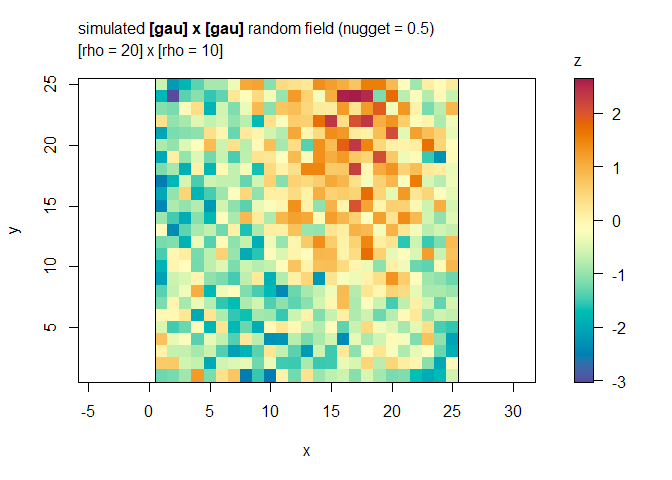
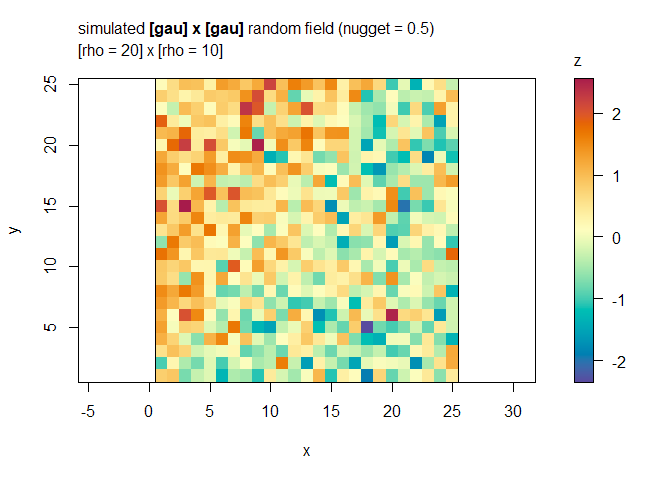
swapped in github URLs to get images to display

diff --git a/vignettes/pkern_vignette.md b/vignettes/pkern_vignette.md
@@ -130,7 +130,7 @@ recenter the data to get something closer to a Gaussian random variable.
 hist(meuse$zinc, main='histogram of [zinc] in the meuse dataset')
 ```
 
-![](D:/pkern/vignettes/pkern_vignette_files/figure-gfm/unnamed-chunk-7-1.png)<!-- -->
+![](https://github.com/deankoch/pkern/blob/main/vignettes/pkern_vignette_files/figure-gfm/unnamed-chunk-7-1.png)<!-- -->
 
 This chunk does the transformation and appends it to `meuse` in the new
 column “logzinc”. We save the centering constant in variable
@@ -146,7 +146,7 @@ meuse$logzinc = as.numeric(logzinc)
 hist(meuse$logzinc, main='histogram of zero-centred log[zinc] in the meuse dataset')
 ```
 
-![](D:/pkern/vignettes/pkern_vignette_files/figure-gfm/unnamed-chunk-8-1.png)<!-- -->
+![](https://github.com/deankoch/pkern/blob/main/vignettes/pkern_vignette_files/figure-gfm/unnamed-chunk-8-1.png)<!-- -->
 
 The `meuse` dataframe has columns “x” and “y” for the projected Easting
 and Northing coordinates, so it can be converted to a spatial points
@@ -161,7 +161,7 @@ meuse.sf = st_as_sf(meuse, coords=c('x', 'y'), crs=meuse.epsg)
 plot(meuse.sf['logzinc'], pch=16, main='zero-centred log[zinc]')
 ```
 
-![](D:/pkern/vignettes/pkern_vignette_files/figure-gfm/unnamed-chunk-9-1.png)<!-- -->
+![](https://github.com/deankoch/pkern/blob/main/vignettes/pkern_vignette_files/figure-gfm/unnamed-chunk-9-1.png)<!-- -->
 
 The river Meuse runs diagonally across this map (from bottom-left to
 top-right), and points are sampled along its east bank. This vignette
@@ -323,7 +323,7 @@ gsnap.nearest$sg$pdist |> range()
 pkern_snap_plot(gsnap.nearest, meuse.sf)
 ```
 
-![](D:/pkern/vignettes/pkern_vignette_files/figure-gfm/unnamed-chunk-13-1.png)<!-- -->
+![](https://github.com/deankoch/pkern/blob/main/vignettes/pkern_vignette_files/figure-gfm/unnamed-chunk-13-1.png)<!-- -->
 
 This minimizes total positional error (the largest snapping distance is
 about 2m) but results in the most complicated subgrid possible (the full
@@ -359,7 +359,7 @@ gsnap.nearest.10$sg$pdist |> range()
 pkern_snap_plot(gsnap.nearest.10, meuse.sf)
 ```
 
-![](D:/pkern/vignettes/pkern_vignette_files/figure-gfm/unnamed-chunk-14-1.png)<!-- -->
+![](https://github.com/deankoch/pkern/blob/main/vignettes/pkern_vignette_files/figure-gfm/unnamed-chunk-14-1.png)<!-- -->
 
 With wider spacing the positional error has increased - the largest
 snapping distance is now around 30m - but the subgrid is now
@@ -373,7 +373,7 @@ gsnap.nearest.auto = pkern_snap(gfull, pts=meuse.sf, distinct=FALSE)
 pkern_snap_plot(gsnap.nearest.auto, meuse.sf)
 ```
 
-![](D:/pkern/vignettes/pkern_vignette_files/figure-gfm/unnamed-chunk-15-1.png)<!-- -->
+![](https://github.com/deankoch/pkern/blob/main/vignettes/pkern_vignette_files/figure-gfm/unnamed-chunk-15-1.png)<!-- -->
 
 ``` r
 gsnap.nearest.auto$sg$pdist |> range()
@@ -410,7 +410,7 @@ gsnap = pkern_snap(gfull, pts=meuse.sf)
 pkern_snap_plot(gsnap, meuse.sf)
 ```
 
-![](D:/pkern/vignettes/pkern_vignette_files/figure-gfm/unnamed-chunk-16-1.png)<!-- -->
+![](https://github.com/deankoch/pkern/blob/main/vignettes/pkern_vignette_files/figure-gfm/unnamed-chunk-16-1.png)<!-- -->
 
 ``` r
 gsnap$sg$pdist |> range()
@@ -452,7 +452,7 @@ zinc.sg[idx.to] = meuse$logzinc
 pkern_plot(zinc.sg, gdim=gsnap[['sg']][['gdim']], ppars=list(leg='log[zinc]'))
 ```
 
-![](D:/pkern/vignettes/pkern_vignette_files/figure-gfm/unnamed-chunk-18-1.png)<!-- -->
+![](https://github.com/deankoch/pkern/blob/main/vignettes/pkern_vignette_files/figure-gfm/unnamed-chunk-18-1.png)<!-- -->
 
 ``` r
 # you can also create the data vector in one line using inverse mapping
@@ -474,7 +474,7 @@ correct coordinates and aspect ratio
 modifyList(gsnap[['sg']], list(gval=zinc.sg)) |> pkern_plot(gtest, ppars=list(leg='log[zinc]'))
 ```
 
-![](D:/pkern/vignettes/pkern_vignette_files/figure-gfm/unnamed-chunk-19-1.png)<!-- -->
+![](https://github.com/deankoch/pkern/blob/main/vignettes/pkern_vignette_files/figure-gfm/unnamed-chunk-19-1.png)<!-- -->
 
 ## Covariance model
 
@@ -503,7 +503,7 @@ plot(d, corr, pch=NA, main='1d Gaussian correlation function')
 lines(d, corr)
 ```
 
-![](D:/pkern/vignettes/pkern_vignette_files/figure-gfm/unnamed-chunk-20-1.png)<!-- -->
+![](https://github.com/deankoch/pkern/blob/main/vignettes/pkern_vignette_files/figure-gfm/unnamed-chunk-20-1.png)<!-- -->
 
 ``` r
 # correlation matrix for the lag sequence above
@@ -539,7 +539,7 @@ pars.2d = list(y=pars.1d.y, x=pars.1d.x)
 pkern_plot(pars.2d)
 ```
 
-![](D:/pkern/vignettes/pkern_vignette_files/figure-gfm/unnamed-chunk-21-1.png)<!-- -->
+![](https://github.com/deankoch/pkern/blob/main/vignettes/pkern_vignette_files/figure-gfm/unnamed-chunk-21-1.png)<!-- -->
 
 This plot shows the correlation between a central point and all of the
 grid points surrounding it, illustrating the spatial pattern of
@@ -564,7 +564,7 @@ pars.2d = modifyList(pars.2d, list(psill=2, nug=0.5))
 pkern_plot(pars.2d)
 ```
 
-![](D:/pkern/vignettes/pkern_vignette_files/figure-gfm/unnamed-chunk-22-1.png)<!-- -->
+![](https://github.com/deankoch/pkern/blob/main/vignettes/pkern_vignette_files/figure-gfm/unnamed-chunk-22-1.png)<!-- -->
 
 The plot looks identical except that the color legend has a new range.
 The spatial pattern of the covariance function is determined by the
@@ -577,23 +577,26 @@ which can be passed to the plotter to get a sense of what type of
 spatial patterns are expected under the model:
 
 ``` r
+# set random seed so we don't change the image every time I edit this script
+set.seed(1)
+
 # simulate data from the model defined above
 pkern_sim(pars.2d)
 ```
 
-![](D:/pkern/vignettes/pkern_vignette_files/figure-gfm/unnamed-chunk-23-1.png)<!-- -->
+![](https://github.com/deankoch/pkern/blob/main/vignettes/pkern_vignette_files/figure-gfm/unnamed-chunk-23-1.png)<!-- -->
 
 ``` r
 # repeat with smaller nugget effect
 pkern_sim(modifyList(pars.2d, list(nug=1e-2)))
 ```
 
-![](D:/pkern/vignettes/pkern_vignette_files/figure-gfm/unnamed-chunk-23-2.png)<!-- -->
+![](https://github.com/deankoch/pkern/blob/main/vignettes/pkern_vignette_files/figure-gfm/unnamed-chunk-23-2.png)<!-- -->
 
-We show next how to fit the parameters of a covariance model to a sample
-variogram by weighted least squares. This is not the most robust way of
-fitting covariance, however it is easy to understand, and fast. For
-users preferring likelihood based-methods, we also include the (log)
+We will show next how to fit the parameters of a covariance model to a
+sample variogram by weighted least squares. This is not the most robust
+way of fitting covariance, however it is easy to understand, and fast.
+For users preferring likelihood based-methods, we also include the (log)
 likelihood function computer `pkern_LL`, which can be used in numerical
 optimization.
 
@@ -621,7 +624,7 @@ vario = pkern_vario(gdim=gsnap, vec=zinc.sg, quiet=TRUE)
 pkern_vario_plot(vario)
 ```
 
-![](D:/pkern/vignettes/pkern_vignette_files/figure-gfm/unnamed-chunk-25-1.png)<!-- -->
+![](https://github.com/deankoch/pkern/blob/main/vignettes/pkern_vignette_files/figure-gfm/unnamed-chunk-25-1.png)<!-- -->
 
 As an aside, these sample variograms reveal some anisotropy in the
 random field. The diagonal x direction (corresponding to the top-right
@@ -642,7 +645,7 @@ pars.vario = pkern_vario_fit(vario)
 pkern_vario_plot(vario, pars.vario)
 ```
 
-![](D:/pkern/vignettes/pkern_vignette_files/figure-gfm/unnamed-chunk-26-1.png)<!-- -->
+![](https://github.com/deankoch/pkern/blob/main/vignettes/pkern_vignette_files/figure-gfm/unnamed-chunk-26-1.png)<!-- -->
 
 Here is what the fitted kernel looks like as a heatmap
 
@@ -651,7 +654,7 @@ Here is what the fitted kernel looks like as a heatmap
 pkern_plot(pars.vario)
 ```
 
-![](D:/pkern/vignettes/pkern_vignette_files/figure-gfm/unnamed-chunk-27-1.png)<!-- -->
+![](https://github.com/deankoch/pkern/blob/main/vignettes/pkern_vignette_files/figure-gfm/unnamed-chunk-27-1.png)<!-- -->
 
 The fitted kernel is slightly anisotropic, with an effective range
 around 500m.
@@ -684,7 +687,7 @@ zpred = pkern_cmean(zinc.sg, gsnap, pars.vario)
 modifyList(gsnap, list(gval=zpred)) |> pkern_plot(ppars=list(main='kriging prediction'))
 ```
 
-![](D:/pkern/vignettes/pkern_vignette_files/figure-gfm/unnamed-chunk-28-1.png)<!-- -->
+![](https://github.com/deankoch/pkern/blob/main/vignettes/pkern_vignette_files/figure-gfm/unnamed-chunk-28-1.png)<!-- -->
 
 Note that this computation happens quite fast compared to most kriging
 methods: The `pkern_cmean` function call takes only around 1/6 of a
@@ -850,7 +853,7 @@ zv = pkern_variance(pc, quiet=TRUE)
 modifyList(gsnap, list(gval=zv)) |> pkern_plot(ppars=list(main='kriging variance'))
 ```
 
-![](D:/pkern/vignettes/pkern_vignette_files/figure-gfm/unnamed-chunk-34-1.png)<!-- -->
+![](https://github.com/deankoch/pkern/blob/main/vignettes/pkern_vignette_files/figure-gfm/unnamed-chunk-34-1.png)<!-- -->
 
 This works by superimposing the n grid data vectors resulting from
 `pkern_cmean(vi)^2`, where `vi` is the ith eigenvector of the sampled
@@ -871,7 +874,7 @@ plot.title = paste('variance contribution from eigenvector', eigen.i)
 modifyList(gsnap, list(gval=zv.i)) |> pkern_plot(ppars=list(main=plot.title))
 ```
 
-![](D:/pkern/vignettes/pkern_vignette_files/figure-gfm/unnamed-chunk-35-1.png)<!-- -->
+![](https://github.com/deankoch/pkern/blob/main/vignettes/pkern_vignette_files/figure-gfm/unnamed-chunk-35-1.png)<!-- -->
 
 The smallest eigenvalues (here, the 50th, 49th, etc) tend to have the
 most complex and interesting appearance. I don’t know of any analytical
@@ -897,7 +900,7 @@ modifyList(gsnap, list(gval=zpred.adj)) |>
   pkern_plot(ppars=list(main='kriging predictions', leg='[zinc]'))
 ```
 
-![](D:/pkern/vignettes/pkern_vignette_files/figure-gfm/unnamed-chunk-36-1.png)<!-- -->
+![](https://github.com/deankoch/pkern/blob/main/vignettes/pkern_vignette_files/figure-gfm/unnamed-chunk-36-1.png)<!-- -->
 
 ``` r
 # repeat for pointwise variance
@@ -905,13 +908,27 @@ modifyList(gsnap, list(gval=zv.adj)) |>
   pkern_plot(ppars=list(main='kriging variance'))
 ```
 
-![](D:/pkern/vignettes/pkern_vignette_files/figure-gfm/unnamed-chunk-36-2.png)<!-- -->
+![](https://github.com/deankoch/pkern/blob/main/vignettes/pkern_vignette_files/figure-gfm/unnamed-chunk-36-2.png)<!-- -->
+
+## Markdown
+
+This chunk below is used to create the markdown document you’re reading
+from an R script file
 
 ``` r
-# Restart session and uncomment this code to build the markdown file
-# library(here)
-# library(rmarkdown)
-# path.input = here('inst/pkern_vignette.R')
-# path.output = here('inst/pkern_vignette.md')
-# rmarkdown::render(path.input, clean=TRUE, output_file=path.output)
+if(FALSE)
+{
+  # Restart session and run code chunk below to build the markdown file
+  library(here)
+  library(rmarkdown)
+
+  # make the markdown document
+  path.input = here('vignettes/pkern_vignette.R')
+  path.output = here('vignettes/pkern_vignette.md')
+  rmarkdown::render(path.input, clean=TRUE, output_file=path.output)
+
+  # substitute local file paths for image files with URLs on github
+  md.github = gsub('https://github.com/deankoch/pkern/blob/main', 'https://github.com/deankoch/pkern/blob/main', readLines(path.output))
+  writeLines(md.github, path.output)
+}
 ```
